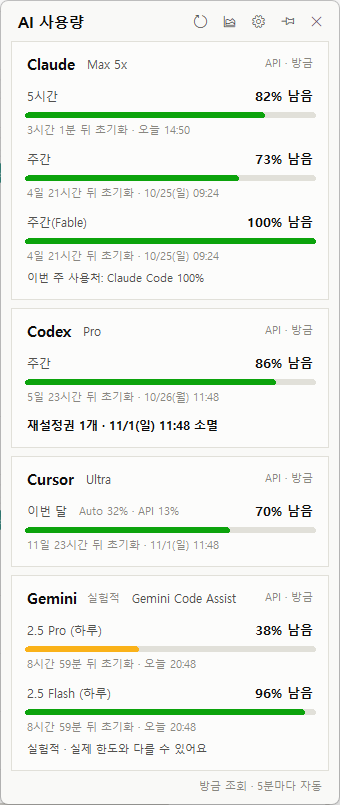
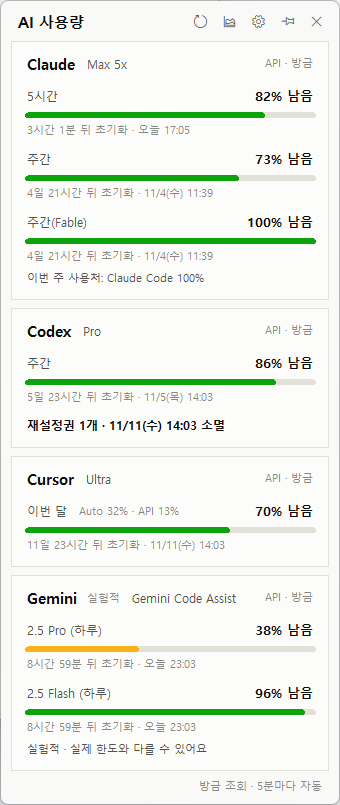
Refresh README screenshots; keep other windows out of captures
The screenshot tool now pastes each window onto a transparent sheet, so
whatever is behind the gap between the panel and the popup is not
captured, and keeps the popup open while capturing.

diff --git a/tools/snapshot.py b/tools/snapshot.py
@@ -19,7 +19,7 @@ suffix = (f"_{lang}" if lang else "") + ("_dark" if "--dark" in args else "")
 if fake:
     os.environ["AGENT_USAGE_DATA"] = tempfile.mkdtemp(prefix="agent_usage_demo_")
 
-from PIL import ImageGrab  # noqa: E402
+from PIL import Image, ImageGrab  # noqa: E402
 
 import agent_usage.app as app_mod  # noqa: E402
 from agent_usage import theme  # noqa: E402
@@ -78,6 +78,7 @@ if fake:
 
 app = app_mod.App()
 app.notifier.check = lambda usage: None     # 캡처 중에는 실제 알림을 보내지 않는다
+app.popup._check_focus = lambda: None       # 캡처 중 다른 창을 눌러도 팝업이 닫히지 않게
 if fake:
     seed(app.history)
 
@@ -113,17 +114,24 @@ def shot_history():
     first = next(iter(panel.sections.values()), None)
     if first is not None:
         first.event_generate("<Motion>", x=int(first.winfo_width() * 0.7), y=int(first.winfo_height() * 0.5))
-    wins = [panel.win, app.popup.win]
-    for w in wins:
-        w.update()
-    x0 = min(w.winfo_rootx() for w in wins)
-    y0 = min(w.winfo_rooty() for w in wins)
-    x1 = max(w.winfo_rootx() + w.winfo_width() for w in wins)
-    y1 = max(w.winfo_rooty() + w.winfo_height() for w in wins)
-    ImageGrab.grab(bbox=(x0, y0, x1, y1), all_screens=True).save(os.path.join(out_dir, f"history{suffix}.png"))
-    print("saved", f"history{suffix}.png", x1 - x0, y1 - y0)
+    grab_all([panel.win, app.popup.win], f"history{suffix}.png")
     app.open_settings()
     app.root.after(800, shot_settings)
+
+
+def grab_all(wins, name):
+    """여러 창을 한 장으로. 창 사이·바깥은 투명하게 둔다 (뒤에 있던 다른 프로그램 화면이 찍히지 않게)."""
+    for w in wins:
+        w.update()
+    boxes = [(w.winfo_rootx(), w.winfo_rooty(), w.winfo_rootx() + w.winfo_width(), w.winfo_rooty() + w.winfo_height())
+             for w in wins]
+    x0, y0 = min(b[0] for b in boxes), min(b[1] for b in boxes)
+    x1, y1 = max(b[2] for b in boxes), max(b[3] for b in boxes)
+    sheet = Image.new("RGBA", (x1 - x0, y1 - y0), (0, 0, 0, 0))
+    for b in boxes:
+        sheet.paste(ImageGrab.grab(bbox=b, all_screens=True), (b[0] - x0, b[1] - y0))
+    sheet.save(os.path.join(out_dir, name))
+    print("saved", name, x1 - x0, y1 - y0)
 
 
 def shot_settings():
